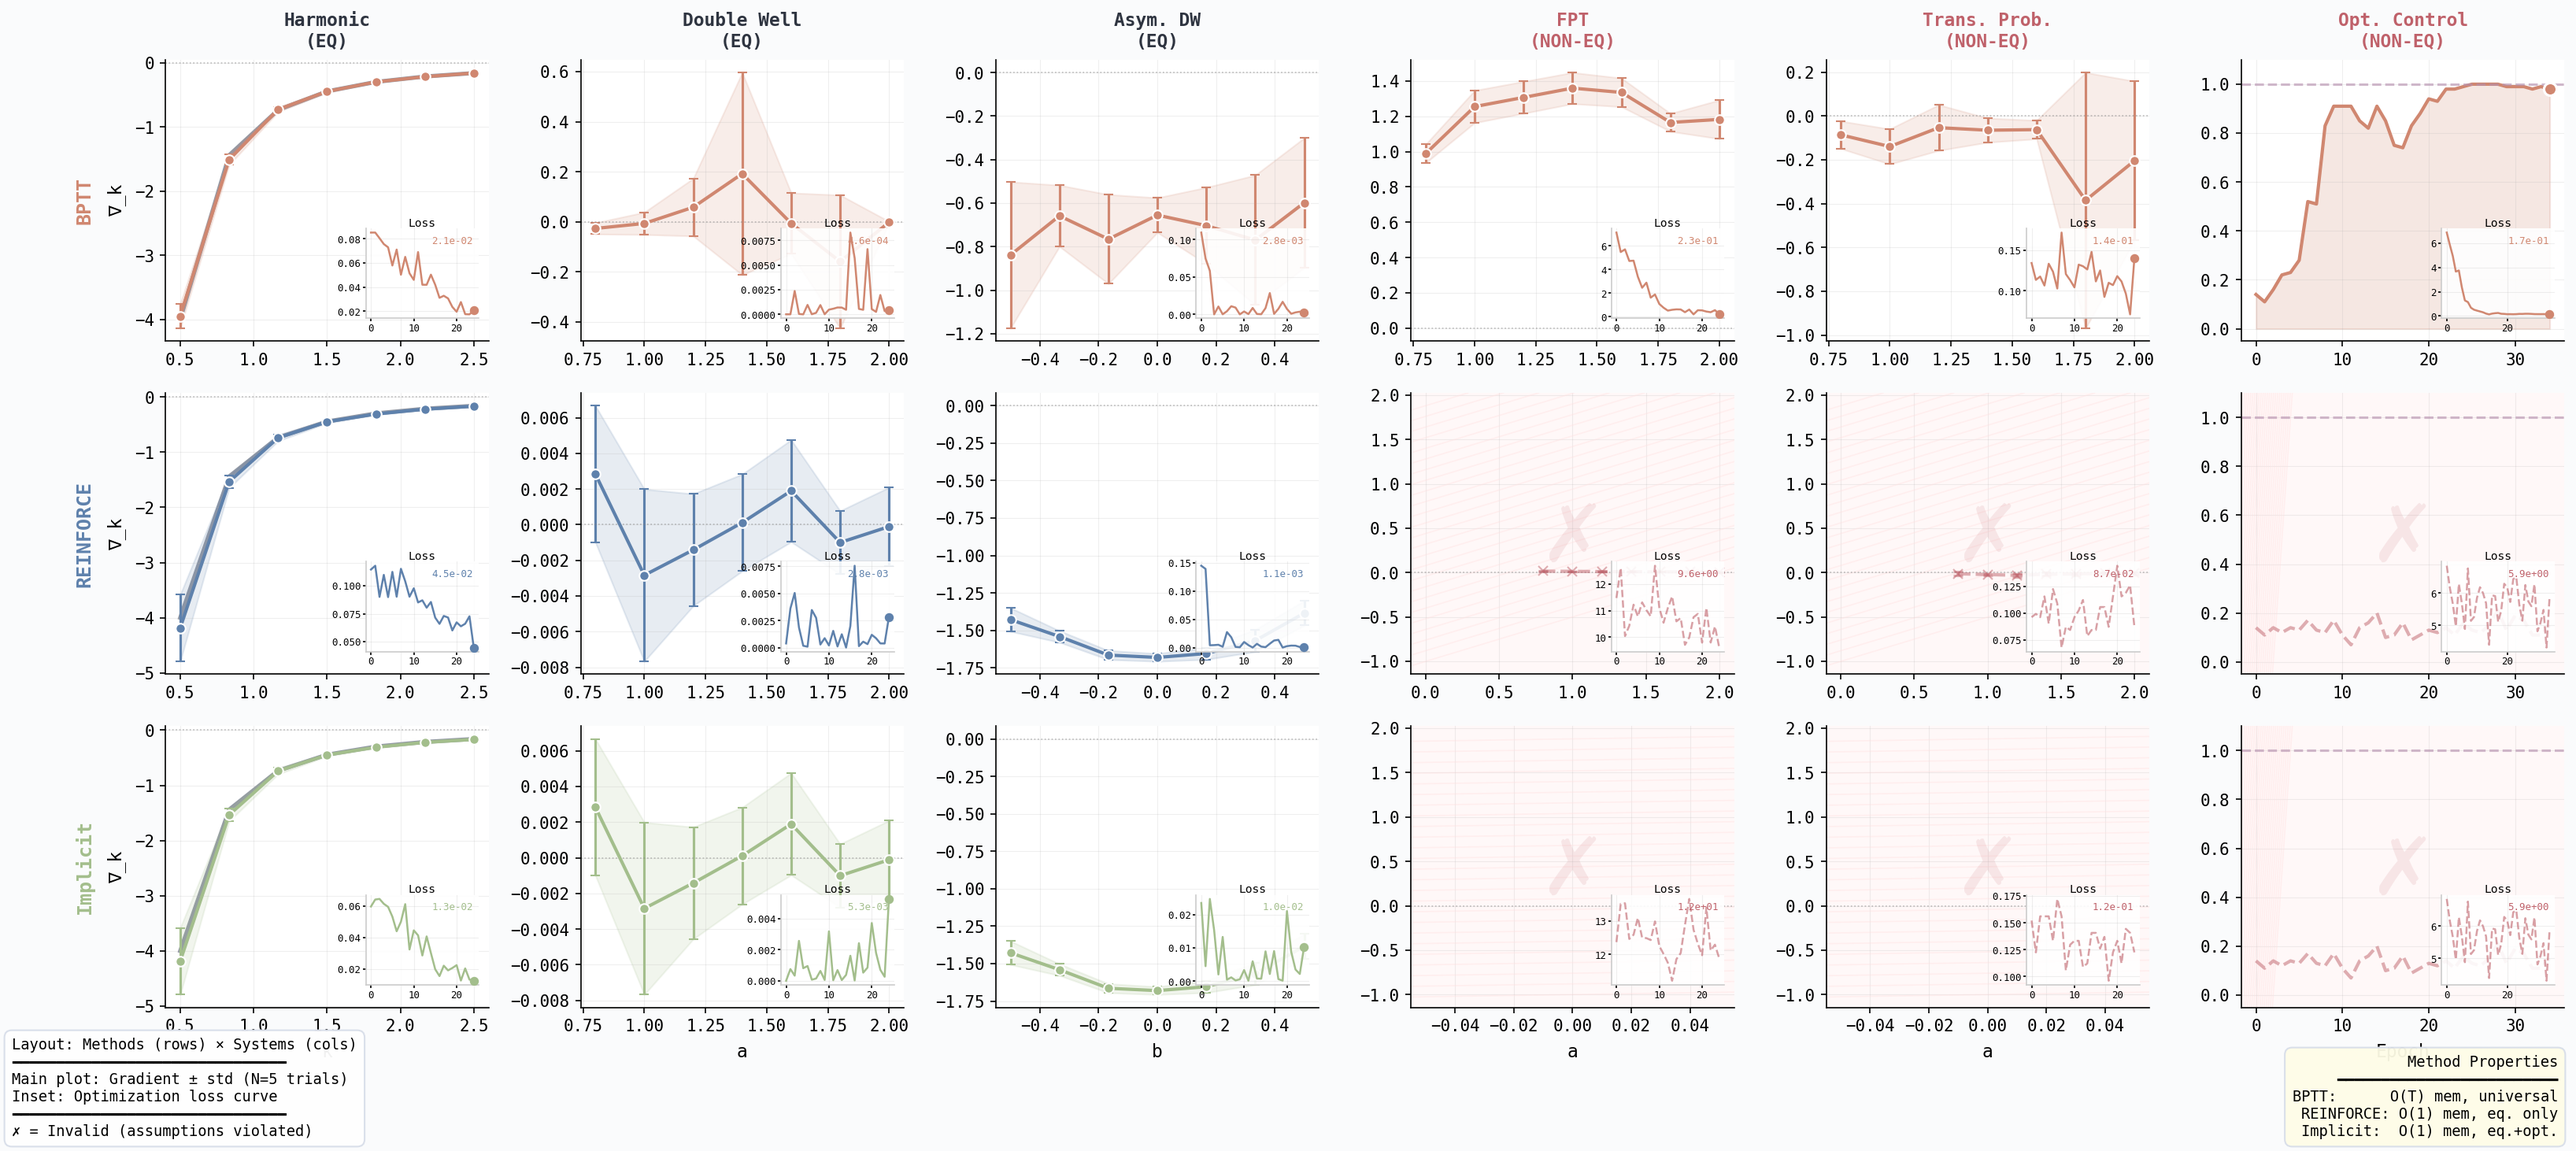
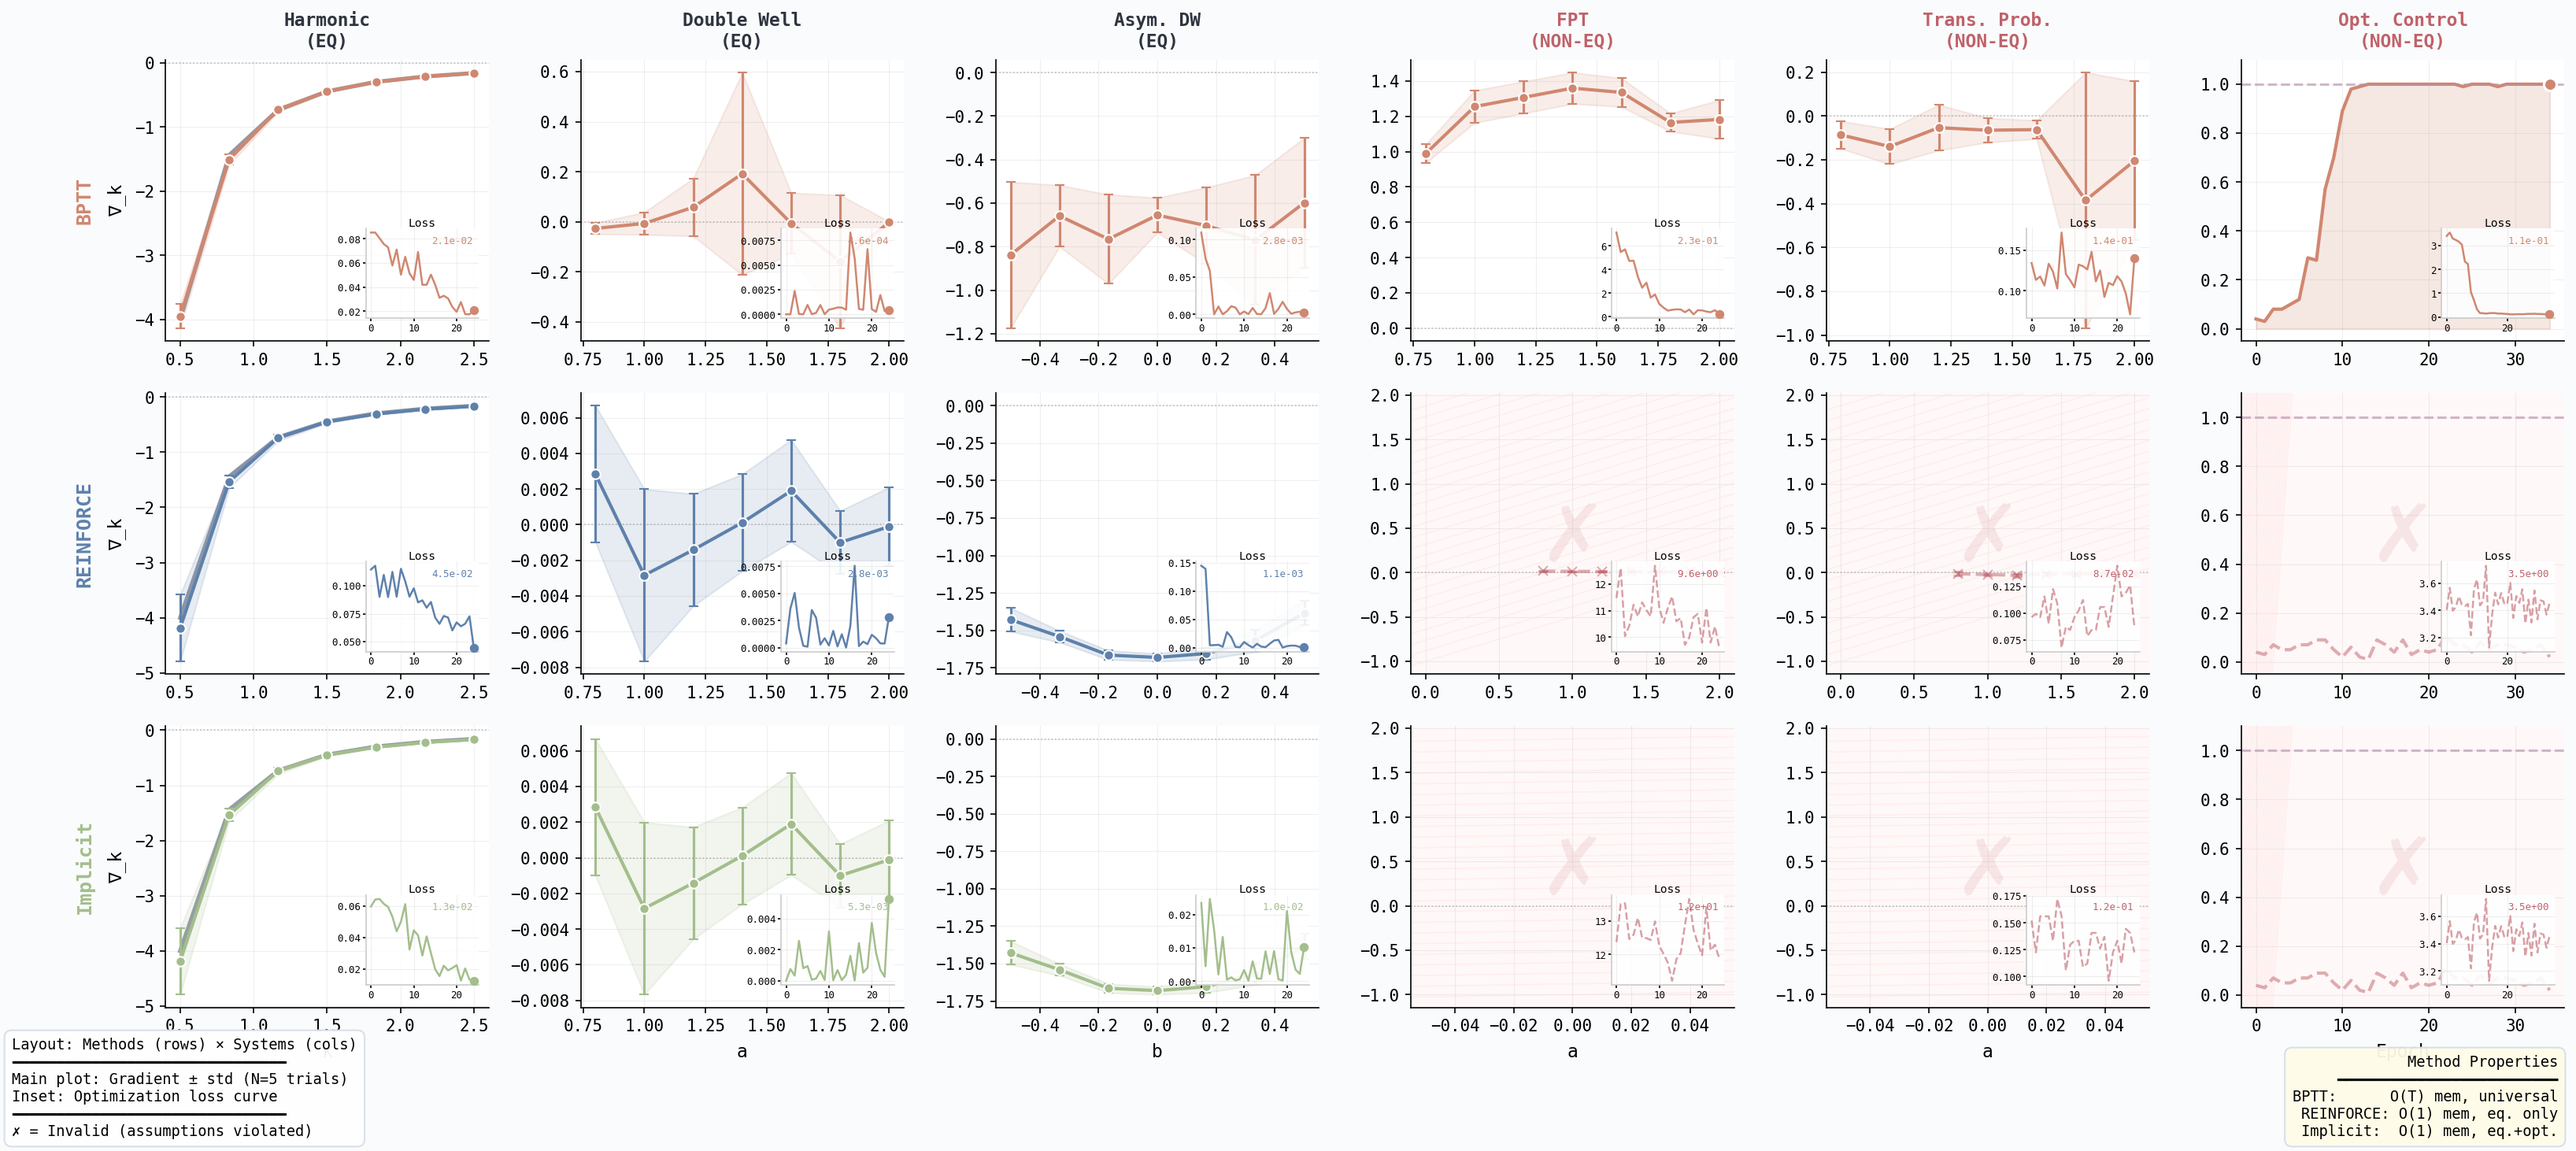
tweak plots + use implemented integrator

Changed region(s): [[0.8729, 0.0616, 0.9976, 0.277], [0.904, 0.4925, 0.9976, 0.5848], [0.8729, 0.8003, 0.9976, 0.8618]]

diff --git a/scripts/gradient_methods_comparison.py b/scripts/gradient_methods_comparison.py
@@ -727,6 +727,9 @@ def run_optimal_control():
     """
     Experiment 6: Optimal Control (Non-Equilibrium)
     
+    Steer particles from left well (-1) to right well (+1) in a double well potential.
+    The controller learns a time-dependent force to overcome the barrier efficiently.
+    
     This is PURE BPTT - REINFORCE and Implicit don't apply!
     """
     print("\n[6/6] Optimal Control: Learn steering protocol [Non-Eq]")
@@ -751,6 +754,10 @@ def run_optimal_control():
         'Implicit': {'grads_mean': [], 'grads_std': [], 'valid': False, 'loss_history': [], 'success': []},
     }
     
+    # Use library components instead of manual implementation
+    potential = DoubleWell(barrier_height=1.0)
+    integrator = OverdampedLangevin(gamma=gamma, kT=kT)
+    
     # BPTT: Train neural controller
     controller = NeuralController(hidden_dim=32)
     optimizer = torch.optim.Adam(controller.parameters(), lr=0.01)
@@ -762,13 +769,23 @@ def run_optimal_control():
         x = torch.full((n_walkers, 1), x_start)
         total_work = 0.0
         
-        for step in range(n_steps):
-            t = step * dt
+        for step_idx in range(n_steps):
+            t = step_idx * dt
+            
+            # Compute control force at current position
             control_force = controller(x, t, T)
+            
+            # Work done by control force
             work_increment = (control_force**2).mean() * dt / gamma
             total_work = total_work + work_increment
-            noise = torch.randn_like(x)
-            x = x + (control_force / gamma) * dt + np.sqrt(2 * kT * dt / gamma) * noise
+            
+            # Combined force: base potential + control
+            # Use closure with default arg to capture current control_force
+            def combined_force(x_in, ctrl=control_force):
+                return potential.force(x_in) + ctrl
+            
+            # Use integrator step
+            x = integrator.step(x, combined_force, dt)
         
         distance_loss = ((x - x_target)**2).mean()
         loss = distance_loss + work_penalty * total_work
@@ -783,18 +800,20 @@ def run_optimal_control():
         results['BPTT']['grads_mean'].append(success_rate)  # Use success as "gradient proxy"
         results['BPTT']['grads_std'].append(0.0)
     
-    # REINFORCE/Implicit: Random walk baseline
+    # REINFORCE/Implicit: Uncontrolled baseline (only potential force, no control)
+    # Shows what happens without learned control - particles stay trapped in left well
     for method in ['REINFORCE', 'Implicit']:
         for epoch in range(n_epochs):
             torch.manual_seed(epoch)
             x = torch.full((n_walkers, 1), x_start)
             
-            for step in range(n_steps):
-                noise = torch.randn_like(x)
-                x = x + np.sqrt(2 * kT * dt / gamma) * noise
+            # Run uncontrolled dynamics using integrator.run()
+            with torch.no_grad():
+                traj = integrator.run(x, potential.force, dt=dt, n_steps=n_steps)
+            x_final = traj[-1]
             
-            distance_loss = ((x - x_target)**2).mean().item()
-            success_rate = (x[:, 0] > 0.5).float().mean().item()
+            distance_loss = ((x_final - x_target)**2).mean().item()
+            success_rate = (x_final[:, 0] > 0.5).float().mean().item()
             
             results[method]['loss_history'].append(distance_loss)
             results[method]['success'].append(success_rate)
@@ -802,6 +821,7 @@ def run_optimal_control():
             results[method]['grads_std'].append(0.0)
     
     print(f"   BPTT final success rate: {results['BPTT']['success'][-1]:.1%}")
+    print(f"   Uncontrolled baseline:   {results['REINFORCE']['success'][-1]:.1%}")
     return results
 
 
